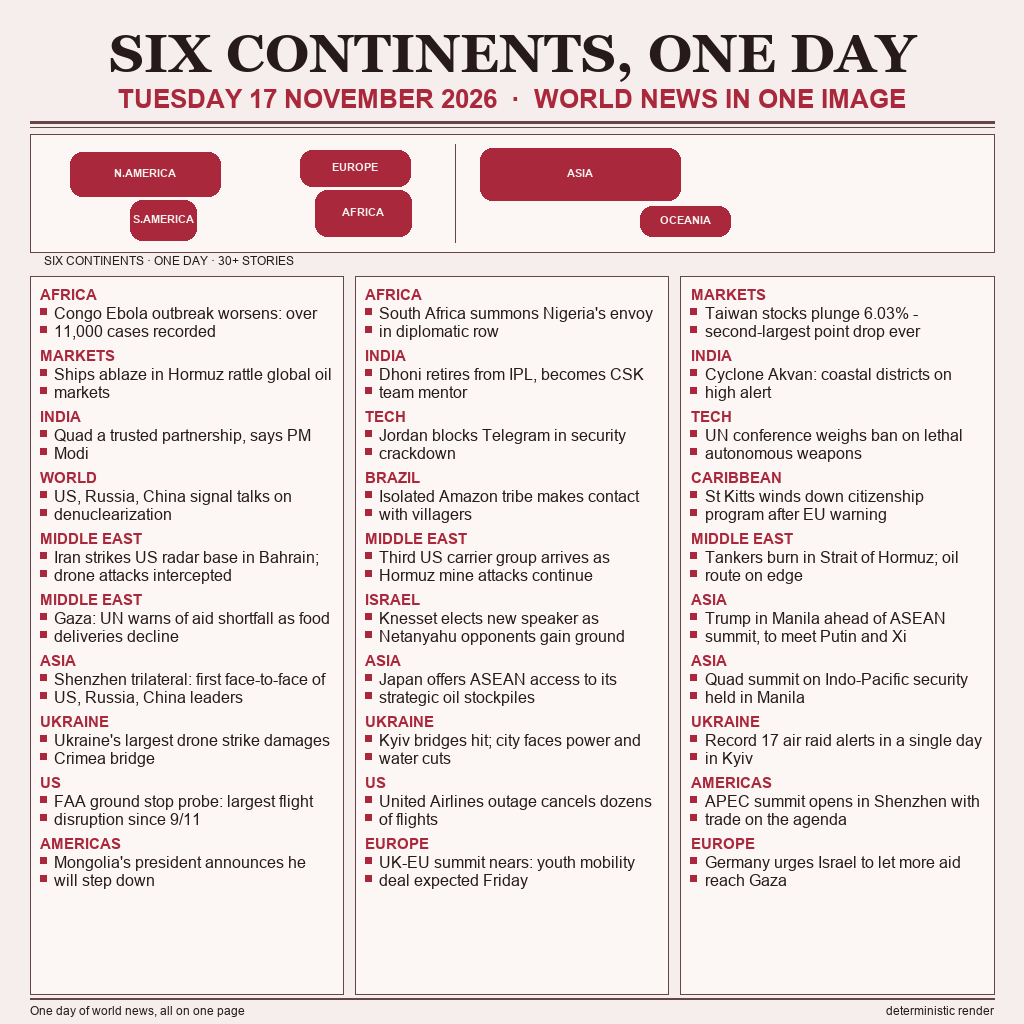
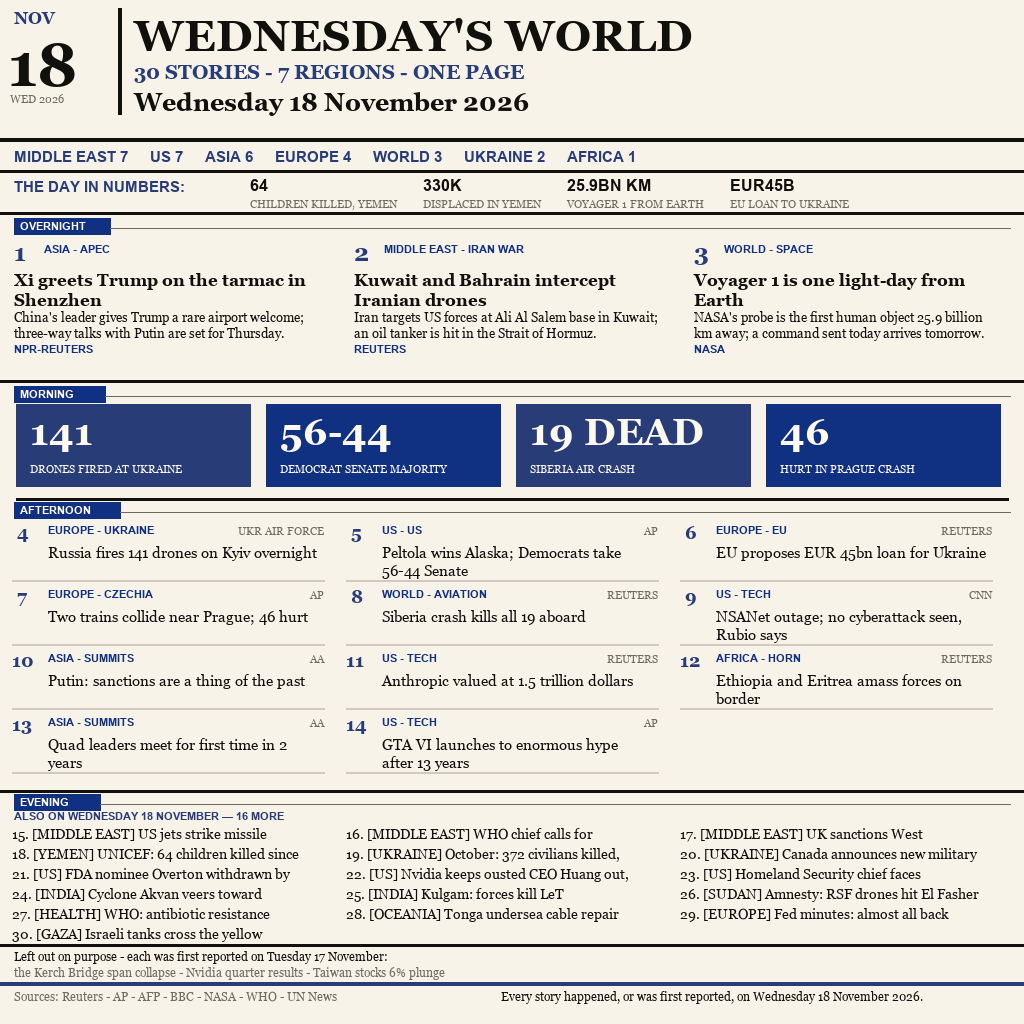
v14 broadsheet entry for news-image-20261118

Changed region(s): [[0.0, 0.0, 1.0, 1.0]]

diff --git a/main.ts b/main.ts
@@ -1,0 +1,25 @@
+/**
+ * Broadsheet layout (v14, Wednesday 18 November 2026):
+ *
+ * - Masthead: "WEDNESDAY'S WORLD" with tagline "30 STORIES - 7 REGIONS - ONE PAGE"
+ * - Date strip on left with "NOV 18 WED 2026"
+ * - Regional stat bands at top (MIDDLE EAST 7, US 7, ASIA 6, EUROPE 4, WORLD 3, UKRAINE 2, AFRICA 1)
+ * - "The Day in Numbers" stat row (64 children killed Yemen, 330K displaced Yemen, 25.9BN km Voyager, EUR 45B Ukraine loan)
+ * - Time-ordered sections:
+ *   - OVERNIGHT: 3 headline cards (Asia-Apac, Middle East-Iran War, World-Space)
+ *   - MORNING: 4 stat cards (141 drones, 56-44 Senate, 19 dead, 46 hurt)
+ *   - AFTERNOON: 9 brief stories organized by region/topic
+ *   - EVENING: 16+ additional stories, also on the day, numbered 15-30
+ *
+ * Copy logic: read entry.png, write to /output/entry.png using Node.js standard library.
+ */
+
+import { readFileSync, writeFileSync, mkdirSync } from 'fs';
+import { join } from 'path';
+
+const input = 'entry.png';
+const output = join('/output', 'entry.png');
+
+mkdirSync('/output', { recursive: true });
+const data = readFileSync(input);
+writeFileSync(output, data);
